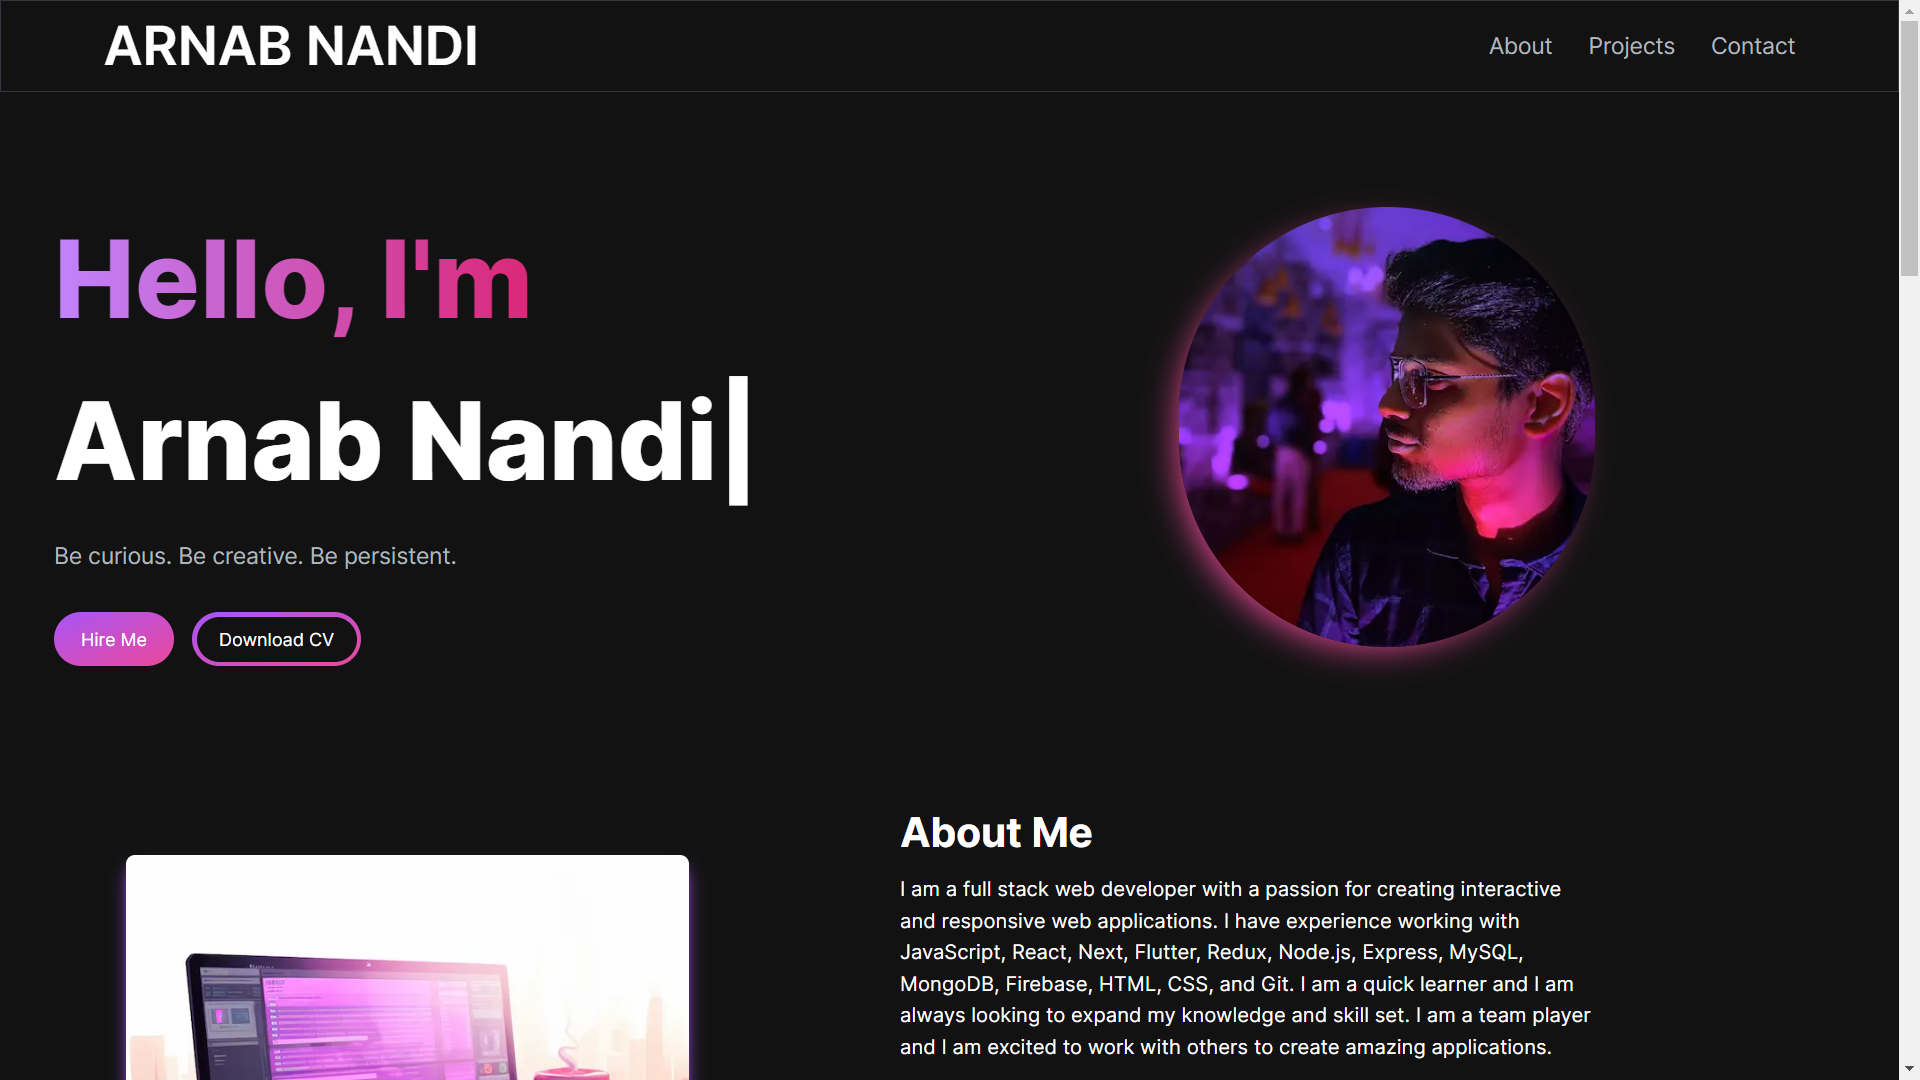
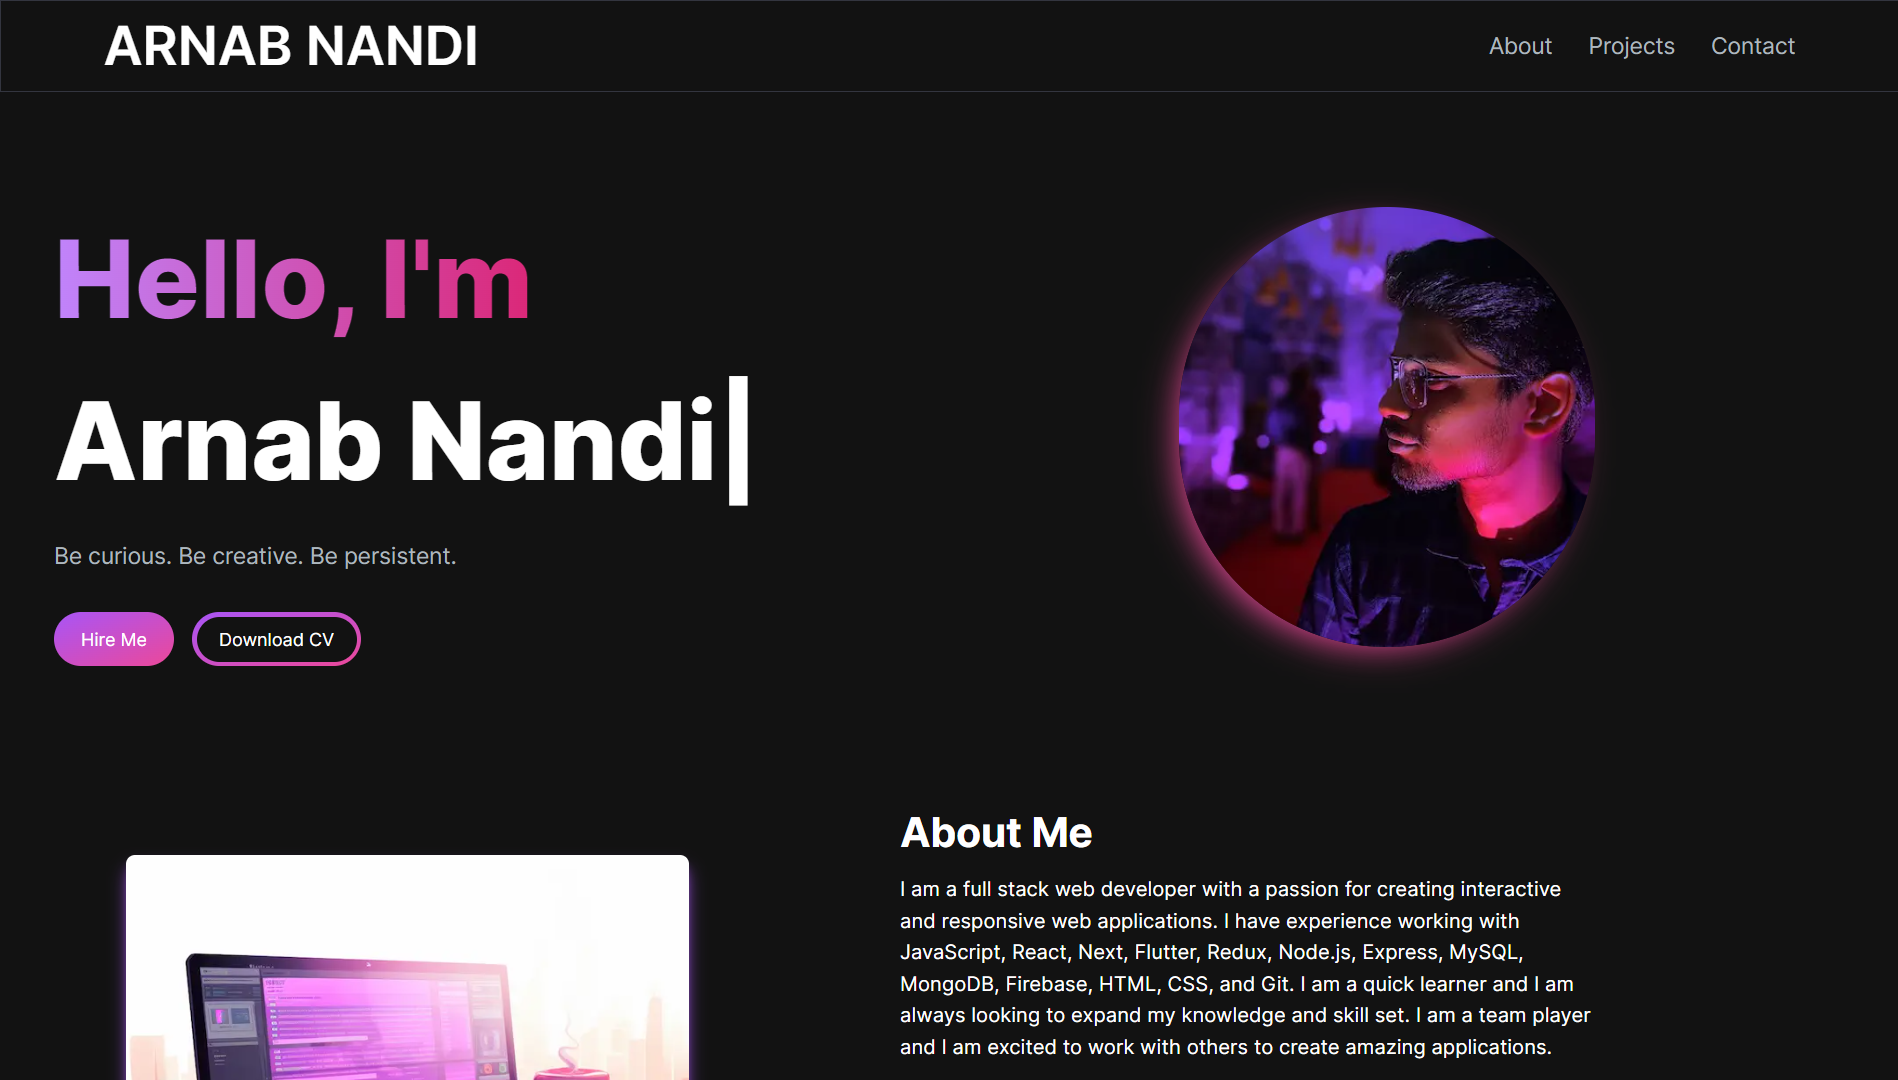
Changed Card Structure

diff --git a/src/app/components/ProjectsSection.jsx b/src/app/components/ProjectsSection.jsx
@@ -13,6 +13,7 @@ const projectsData = [
     tag: ["All", "Web"],
     gitUrl: "https://github.com/arnab7070/skillverse",
     previewUrl: "https://skillverse-arnab7070.vercel.app/",
+    features: ["NextJS", "MongoDB", "AWS", "ML", "OpenAI"],
   },
   {
     id: 1,
@@ -22,6 +23,7 @@ const projectsData = [
     tag: ["All", "Web"],
     gitUrl: "https://github.com/arnab7070/rapidreader",
     previewUrl: "https://rapidreader.vercel.app/",
+    features: ["NextJS", "MongoDB", "Redis", "ML", "GeminiAI"],
   },
   {
     id: 2,
@@ -31,6 +33,7 @@ const projectsData = [
     tag: ["All", "Web"],
     gitUrl: "https://github.com/arnab7070/blog",
     previewUrl: "https://blog-arnab7070.vercel.app/",
+    features: ["NextJS", "MongoDB", "Tailwind CSS", "AOS"],
   },
   {
     id: 3,
@@ -40,6 +43,7 @@ const projectsData = [
     tag: ["All", "Mobile"],
     gitUrl: "https://github.com/arnab7070/Dream-Tracker",
     previewUrl: "https://github.com/EncryptoCyphers/Dream-Tracker/releases/tag/V1.0.0",
+    features: ["Flutter", "Firebase Authentication", "Firestore"],
   },
   {
     id: 4,
@@ -49,6 +53,7 @@ const projectsData = [
     tag: ["All", "Web"],
     gitUrl: "https://github.com/arnab7070/arnab7070.github.io",
     previewUrl: "https://arnab7070.github.io/",
+    features: ["HUGO", "Markdown", "SEO Friendly"],
   },
   {
     id: 5,
@@ -58,6 +63,7 @@ const projectsData = [
     tag: ["All", "Mobile"],
     gitUrl: "https://github.com/arnab7070/Rhythm",
     previewUrl: "https://github.com/EncryptoCyphers/Rhythm/releases/tag/V1",
+    features: ["Flutter", "Firebase", "Scraping", "User Friendly UI"],
   },
   {
     id: 6,
@@ -67,6 +73,7 @@ const projectsData = [
     tag: ["All", "Web"],
     gitUrl: "https://github.com/arnab7070/codeforces",
     previewUrl: "https://arnab7070.github.io/codeforces/",
+    features: ["HTML, CSS, Javascript", "Codeforces API", "Bootstrap"],
   },
   {
     id: 7,
@@ -76,15 +83,17 @@ const projectsData = [
     tag: ["All", "Web"],
     gitUrl: "https://github.com/arnab7070/ulink-URL-Shortener",
     previewUrl: "https://ulink-self.vercel.app/",
+    features: ["NextJS", "TailwindCSS", "MongoDB", "Rest API"],
   },
   {
     id: 8,
     title: "Contest Calendar",
-    description: "Mobile appliaction using Flutter that can track all upcoming Contests using Kontests API",
+    description: "Mobile appliaction using Flutter that can track all upcoming Contests using API",
     image: "/images/projects/contest_calendar.png",
     tag: ["All", "Mobile"],
     gitUrl: "https://github.com/arnab7070/Contest_Calendar",
     previewUrl: "https://github.com/arnab7070/Contest_Calendar/releases/tag/appV3",
+    features: ["Flutter", "Kontests API", "Minimal UI Design"],
   },
   {
     id: 9,
@@ -94,6 +103,7 @@ const projectsData = [
     tag: ["All", "Web"],
     gitUrl: "https://github.com/arnab7070/arnab7070",
     previewUrl: "https://arnab7070.github.io/arnab7070/",
+    features: ["Bootstrap", "HTML", "CSS", "Javascript"],
   },
   {
     id: 10,
@@ -103,6 +113,7 @@ const projectsData = [
     tag: ["All", "Web"],
     gitUrl: "https://github.com/arnab7070/portfolio",
     previewUrl: "https://arnab7070.github.io/portfolio/",
+    features: ["Tailwind CSS", "HTML", "CSS", "Javascript"],
   },
   {
     id: 11,
@@ -112,6 +123,7 @@ const projectsData = [
     tag: ["All", "Web"],
     gitUrl: "https://github.com/arnab7070/me",
     previewUrl: "/",
+    features: ["NextJS", "Framer Motion", "Email JS"],
   },
 ];
 
@@ -155,7 +167,7 @@ const ProjectsSection = () => {
           isSelected={tag === "Mobile"}
         />
       </div>
-      <ul ref={ref} className="grid md:grid-cols-3 gap-x-3 gap-y-8 md:gap-5">
+      <ul ref={ref} className="grid md:grid-cols-3 gap-x-3 gap-y-8 md:gap-8">
         {filteredProjects.map((project, index) => (
           <motion.li
             key={index}
@@ -171,6 +183,7 @@ const ProjectsSection = () => {
               imgUrl={project.image}
               gitUrl={project.gitUrl}
               previewUrl={project.previewUrl}
+              features={project.features}
             />
           </motion.li>
         ))}

diff --git a/src/app/components/ProjectCard.jsx b/src/app/components/ProjectCard.jsx
@@ -2,12 +2,12 @@ import React from "react";
 import { CodeBracketIcon, EyeIcon } from "@heroicons/react/24/outline";
 import Link from "next/link";
 
-const ProjectCard = ({ imgUrl, title, description, gitUrl, previewUrl }) => {
+const ProjectCard = ({ imgUrl, title, description, gitUrl, previewUrl, features }) => {
   return (
     <div>
-      <div className="shadow-md shadow-purple-400 rounded-xl">
+      <div className="shadow-md shadow-pink-300/40 rounded-xl mb-8">
         <div
-          className="h-52 md:h-72 rounded-t-xl relative group"
+          className="h-52 md:h-62 rounded-t-xl relative group"
           style={{ background: `url(${imgUrl})`, backgroundSize: "cover", backgroundPosition: "center", backgroundRepeat: "no-repeat" }}
         >
           <div className="overlay items-center justify-center absolute top-0 left-0 w-full h-full bg-[#181818] bg-opacity-0 hidden group-hover:flex group-hover:bg-opacity-80 transition-all duration-500 ">
@@ -30,6 +30,14 @@ const ProjectCard = ({ imgUrl, title, description, gitUrl, previewUrl }) => {
         <div className="text-white rounded-b-xl mt-3 bg-[#181818] py-6 px-4">
           <h5 className="text-xl font-semibold mb-2">{title}</h5>
           <p className="text-[#ADB7BE]">{description}</p>
+          {
+            features.map((element, index) => (
+              <span key={index} className="mt-3 py-1 px-2 inline-flex items-center gap-x-1 me-2 text-xs font-medium rounded-full bg-pink-500/10 text-pink-500">
+                <svg className="flex-shrink-0 w-4 h-4" xmlns="http://www.w3.org/2000/svg" viewBox="0 0 16 16" fill="currentColor"><path fillRule="evenodd" d="M4.78 4.97a.75.75 0 0 1 0 1.06L2.81 8l1.97 1.97a.75.75 0 1 1-1.06 1.06l-2.5-2.5a.75.75 0 0 1 0-1.06l2.5-2.5a.75.75 0 0 1 1.06 0ZM11.22 4.97a.75.75 0 0 0 0 1.06L13.19 8l-1.97 1.97a.75.75 0 1 0 1.06 1.06l2.5-2.5a.75.75 0 0 0 0-1.06l-2.5-2.5a.75.75 0 0 0-1.06 0ZM8.856 2.008a.75.75 0 0 1 .636.848l-1.5 10.5a.75.75 0 0 1-1.484-.212l1.5-10.5a.75.75 0 0 1 .848-.636Z" clipRule="evenodd" /></svg>
+                {element}
+              </span>
+            ))
+          }
         </div>
       </div>
       <hr className="md:hidden mt-8 h-px border-t-0 bg-transparent bg-gradient-to-r from-transparent via-purple-200 to-transparent opacity-50 dark:opacity-100" />

diff --git a/src/app/page.jsx b/src/app/page.jsx
@@ -9,7 +9,7 @@ export default function Home() {
   return (
     <main className="flex min-h-screen flex-col bg-[#121212]">
       <Navbar />
-      <div className="container mt-24 px-4 md:px-6 py-4">
+      <div className="container mt-24 px-4 md:px-12 py-4">
         <HeroSection />
         <AboutSection />
         <ProjectsSection />
